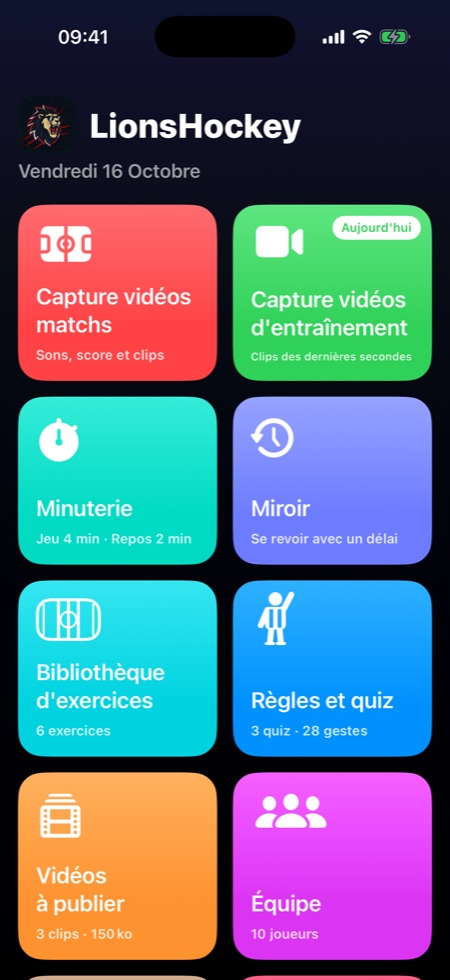
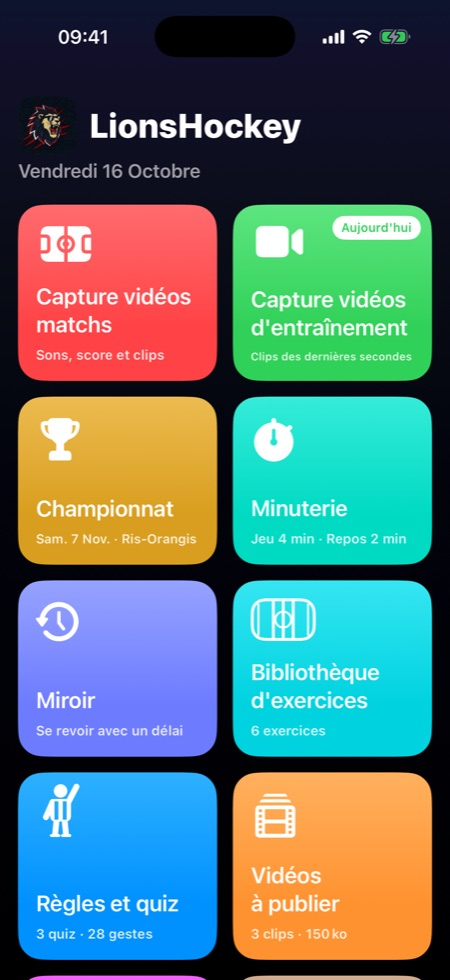
Présentation du Championnat, build 4 envoyée sur TestFlight
- docs/FONCTIONNALITES.md et site public : section Championnat
  (Rolskanet), captures du calendrier et du classement, accueil à jour.
- Numéro de build 4 (app et extension), envoyé sur TestFlight.

diff --git a/fonctionnalites.html b/fonctionnalites.html
@@ -67,6 +67,18 @@
   </section>
 
   <section>
+    <h2>Championnat</h2>
+    <p>Le calendrier, les résultats et le classement de l'équipe, lus en direct sur Rolskanet, le site de
+      résultats de la fédération. Le prochain match en grand, avec l'itinéraire jusqu'au gymnase et un
+      bouton qui prépare la capture de match (adversaire, lieu, score à 0) ; le classement de la poule, avec
+      notre équipe en évidence.</p>
+    <div class="shots">
+      <img src="captures/22-championnat.jpg" alt="Calendrier du championnat" loading="lazy">
+      <img src="captures/23-classement.jpg" alt="Classement de la poule" loading="lazy">
+    </div>
+  </section>
+
+  <section>
     <h2>En paysage</h2>
     <p>Toute l'app tourne avec le téléphone. Pendant la capture, la vidéo prend presque tout l'écran :
       sons compacts et score à droite pour le match, bouton Clip posé sur la vidéo pour l'entraînement.</p>

diff --git a/index.html b/index.html
@@ -29,6 +29,7 @@
     <ul>
       <li><strong>Capture vidéos matchs</strong> : sons d'orgue à un toucher, score, et clips vidéo des dernières secondes avec l'orgue mixé.</li>
       <li><strong>Capture vidéos d'entraînement</strong> : clips à la demande, en grand en paysage.</li>
+      <li><strong>Championnat</strong> : calendrier, résultats et classement, lus en direct sur Rolskanet.</li>
       <li><strong>Minuterie</strong> : temps de jeu et de repos avec buzzer.</li>
       <li><strong>Miroir</strong> : se revoir avec quelques secondes de décalage, avec le squelette du joueur et ses mesures.</li>
       <li><strong>Analyse des vidéos</strong> : posture, détection des tirs, vitesse du palet (au ralenti).</li>
